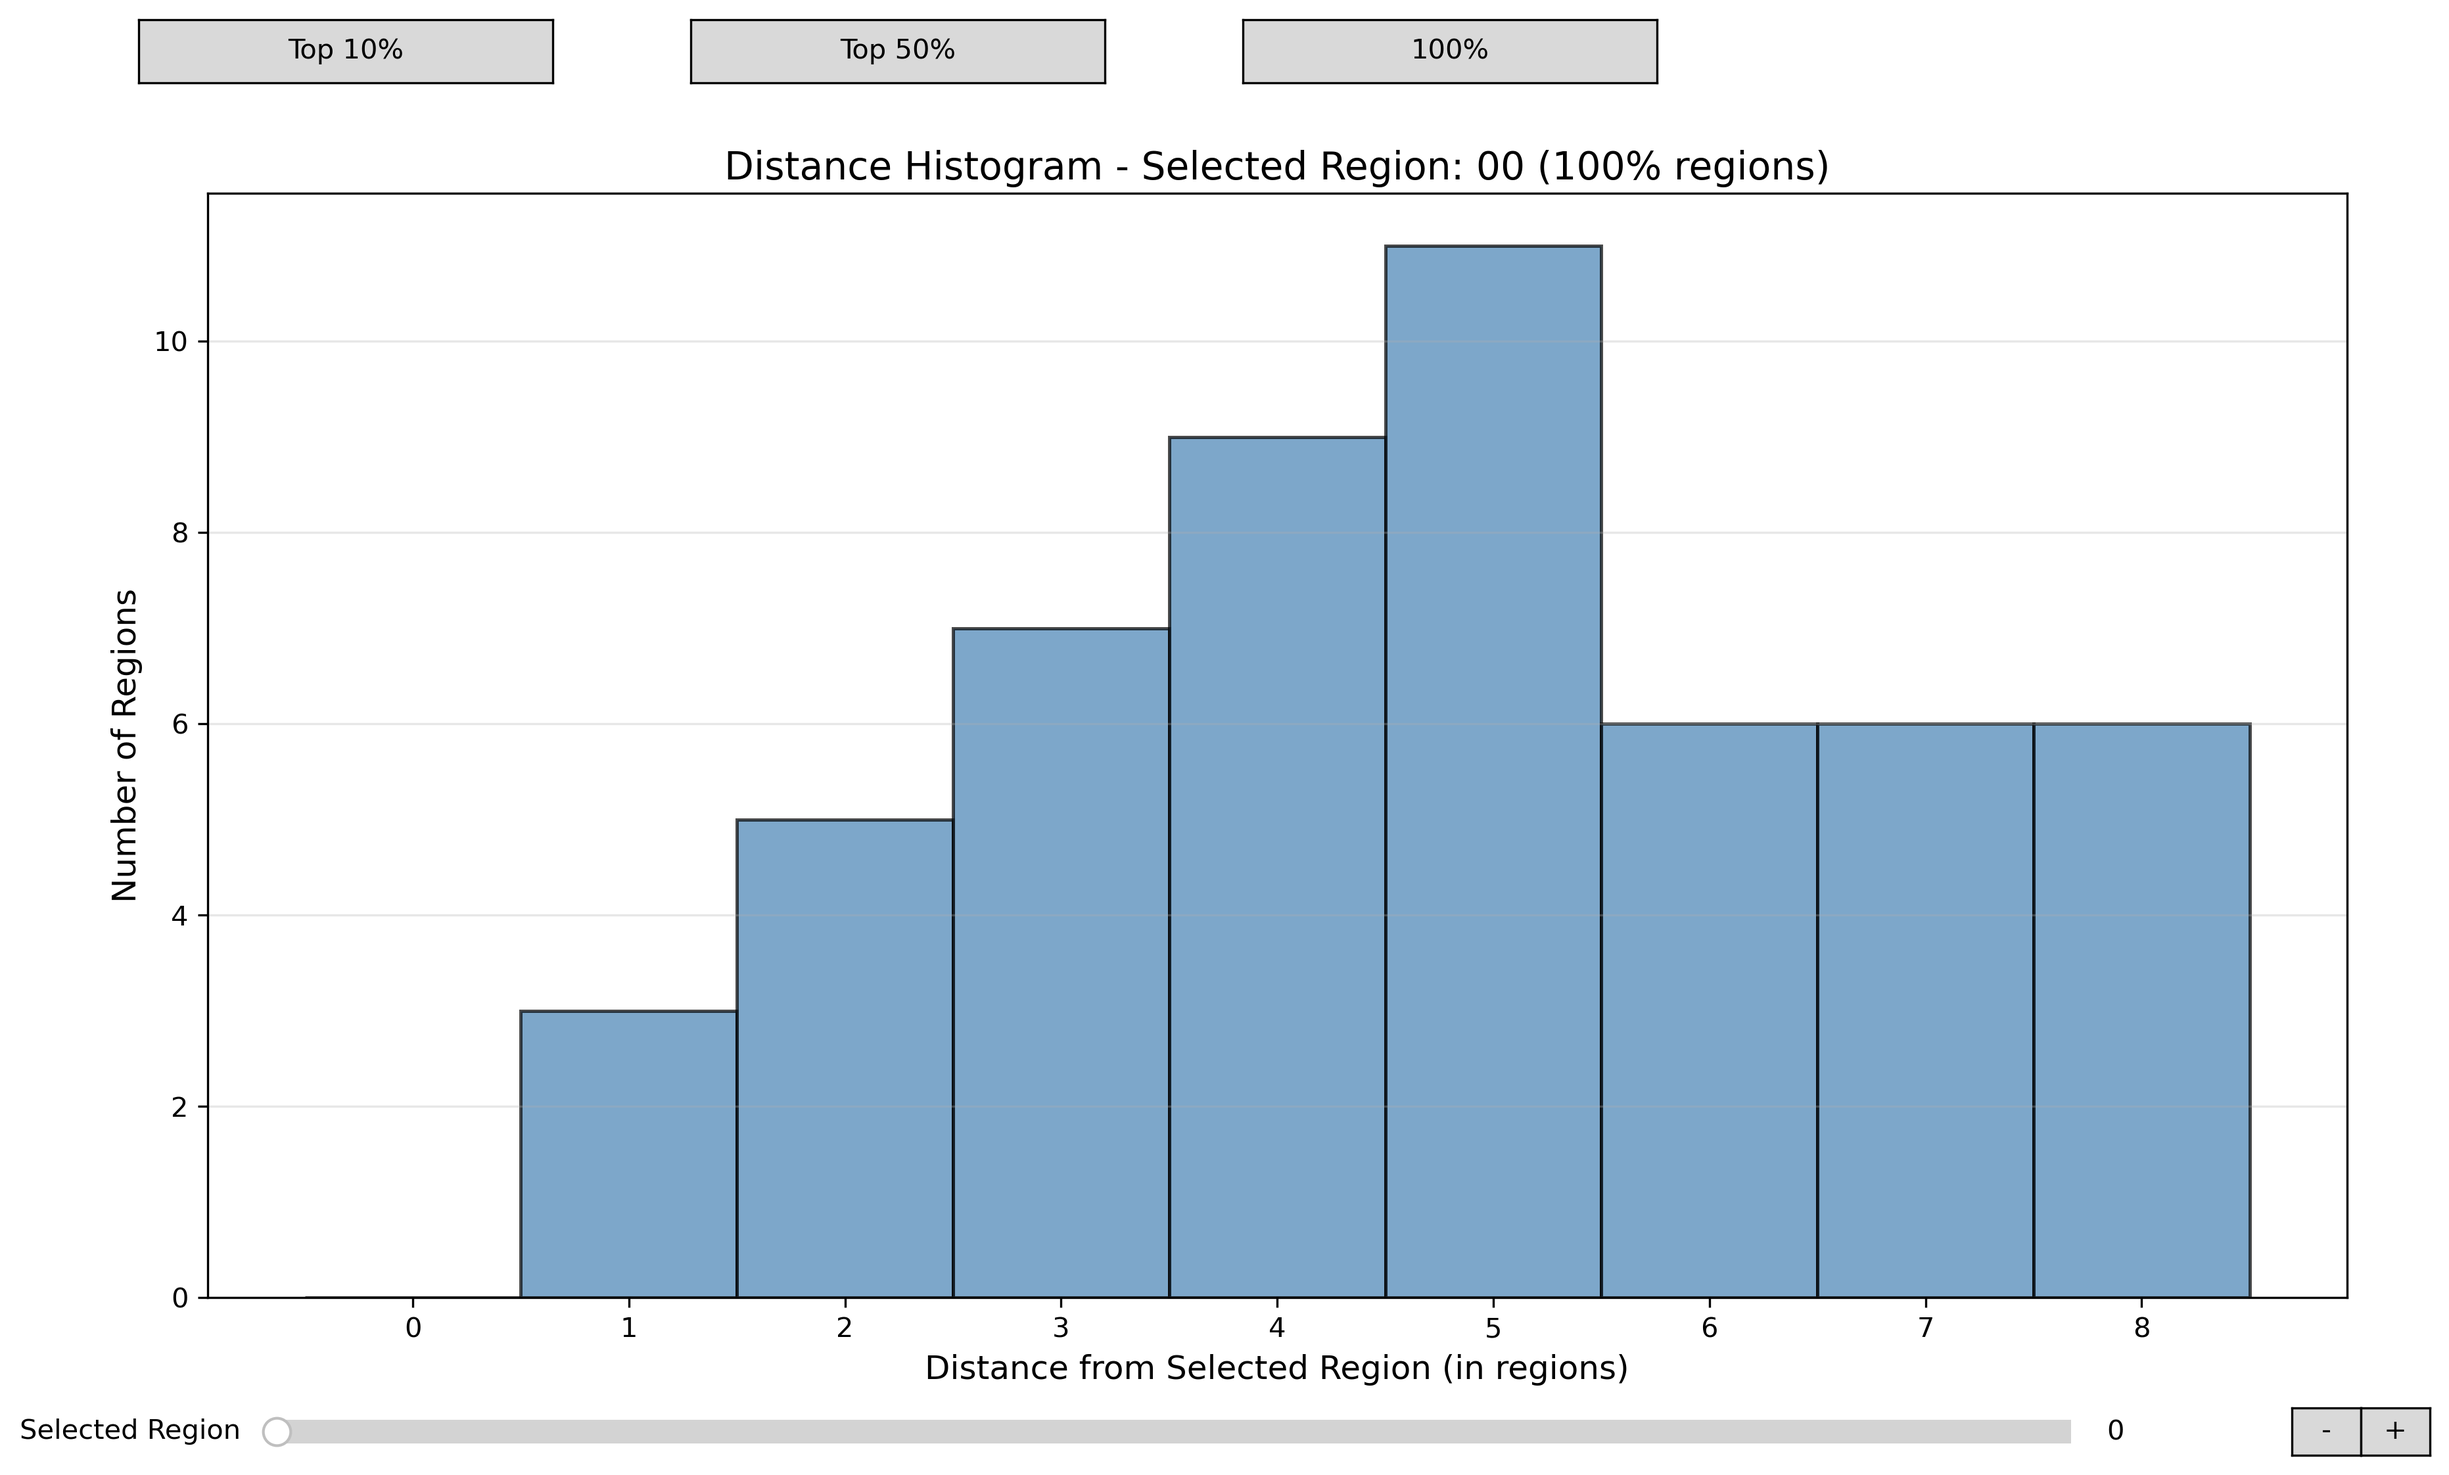
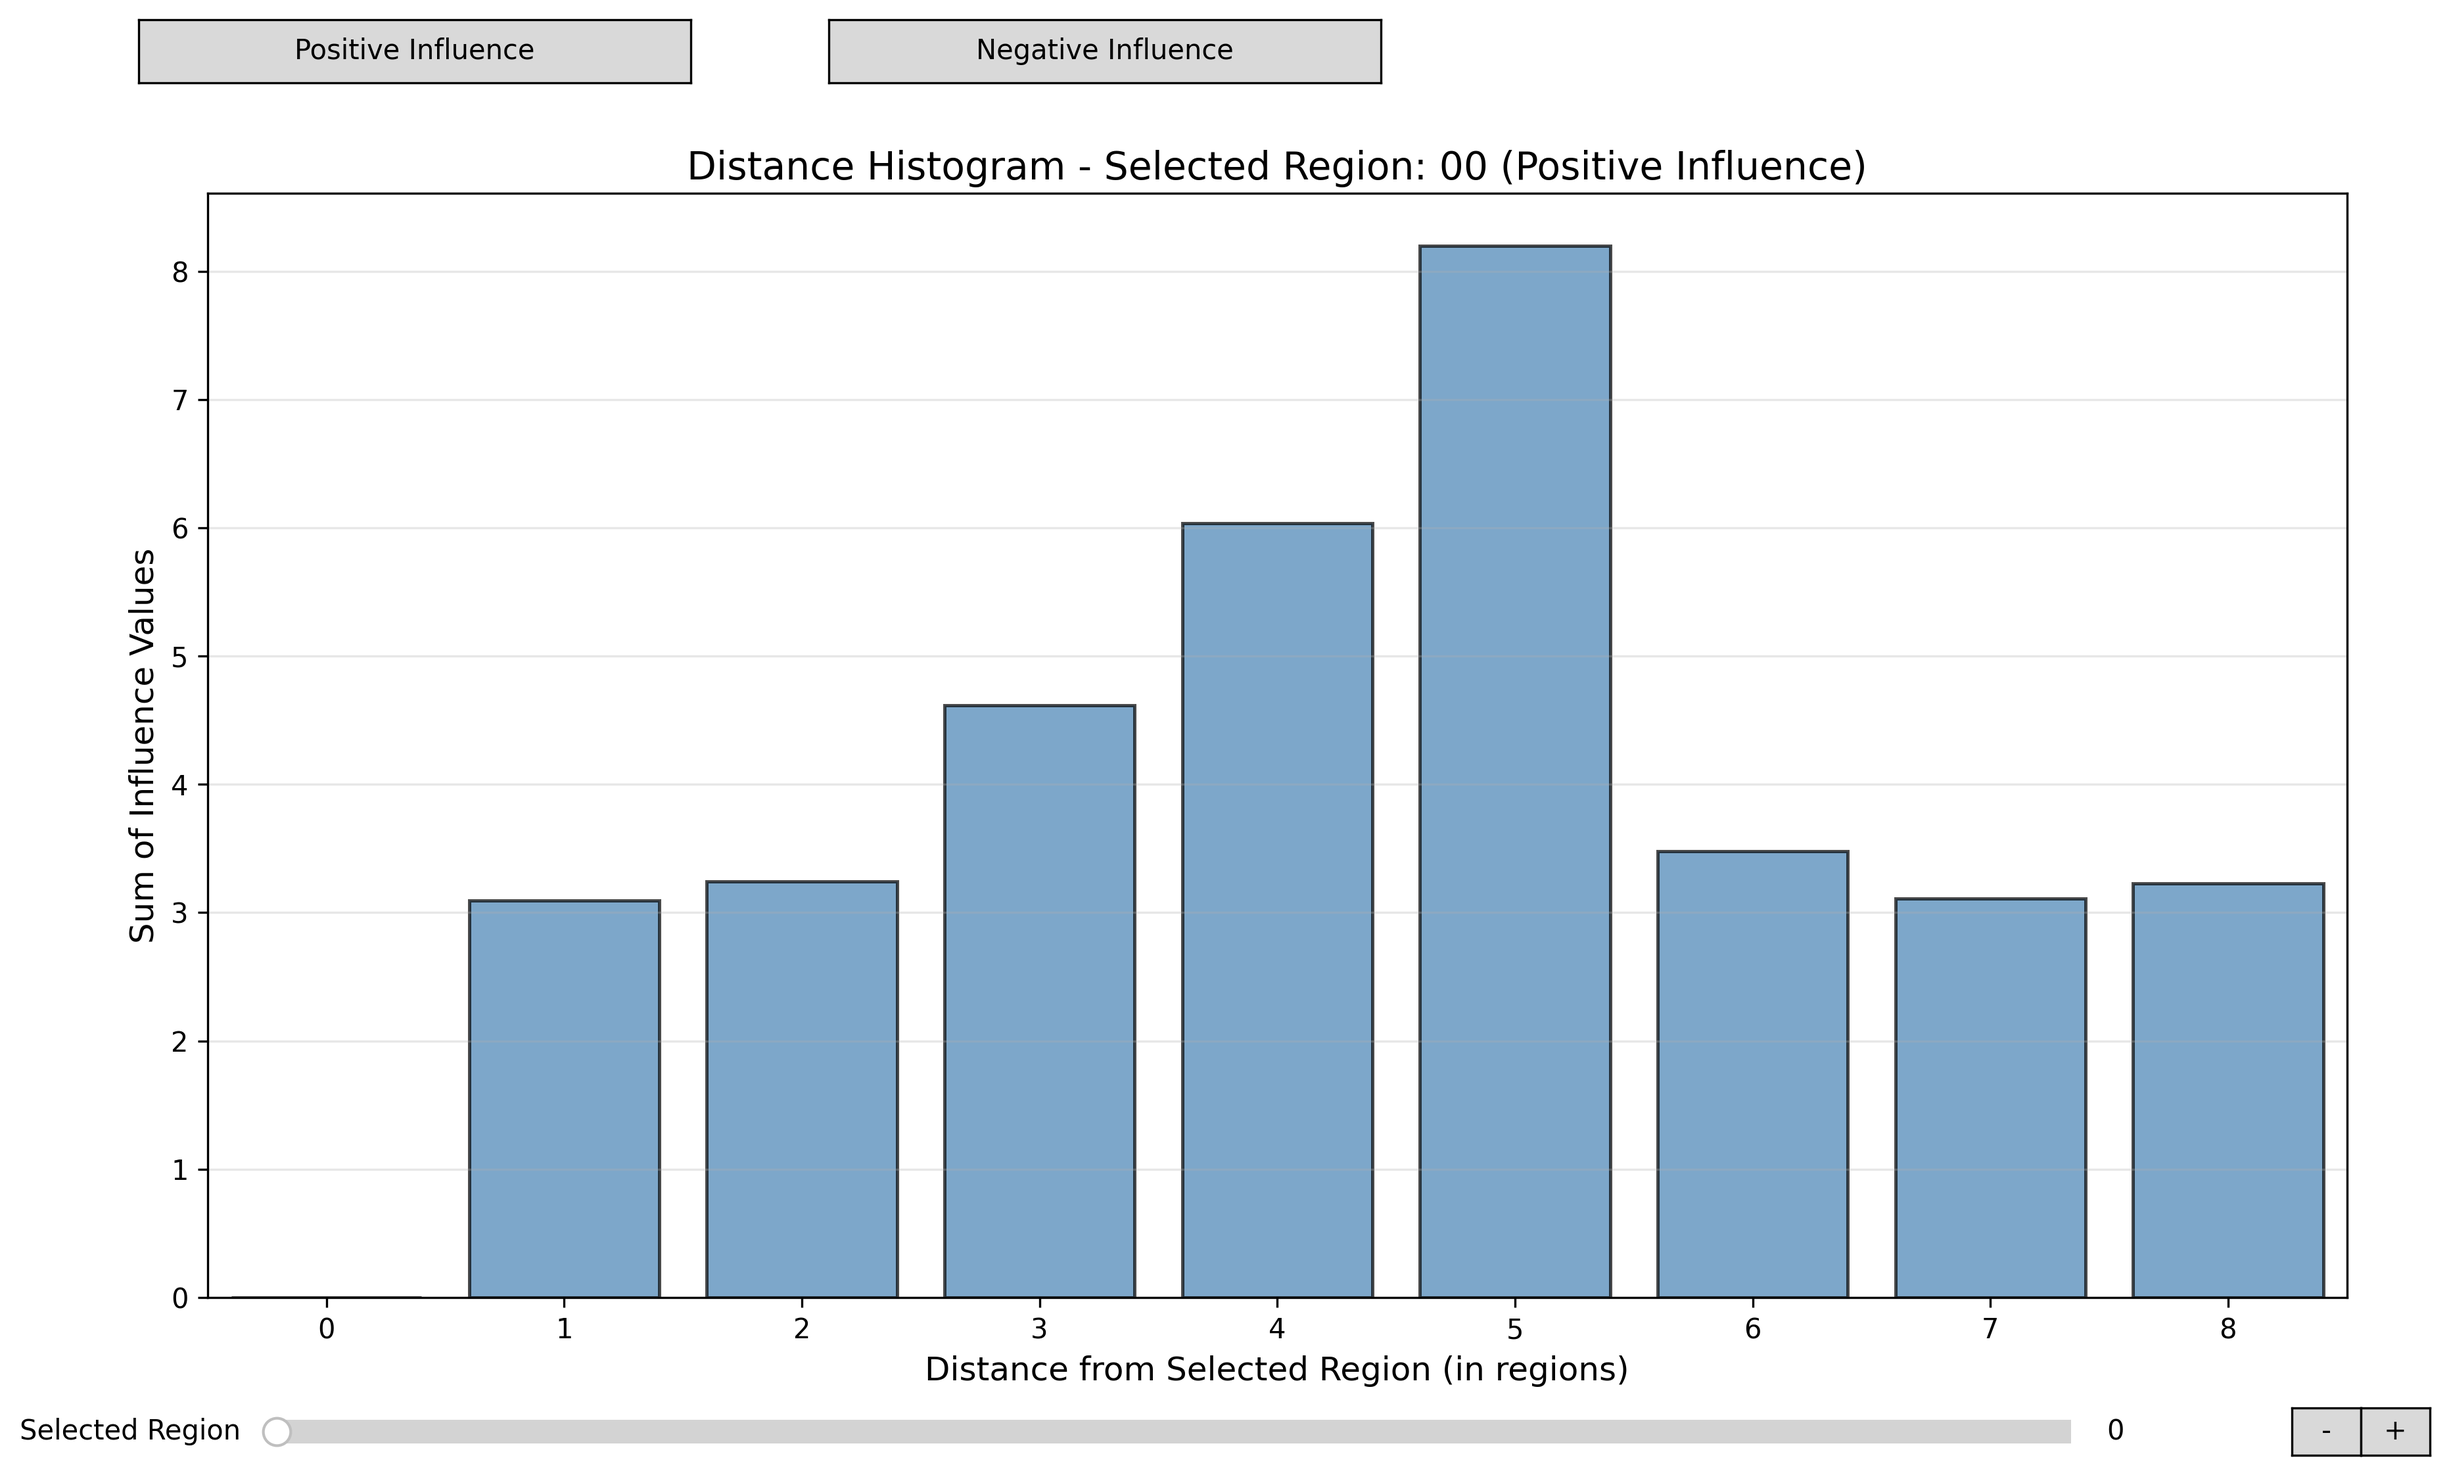
updated histogram to include influence value rather than number of regions

diff --git a/plot-scripts/plot_region_histogram.py b/plot-scripts/plot_region_histogram.py
@@ -24,10 +24,12 @@ def plot_region_histogram(regions_data, yref_shape=(192, 288)):
     # Store current selected region
     selected_region = [0]  # Default to region 0
     
-    # Store current percentage filter
-    current_percent = ['100%']  # '10%', '50%', '100%'
+    # Store current influence type
+    current_influence_type = ['positive']  # 'positive' or 'negative'
+    current_regions_data = [regions_data]
     
     # Calculate region grid positions (row, col) for distance calculation
+    # This only needs to be done once since region positions don't change
     region_positions = []
     for region_idx in range(num_regions):
         region_key = f'region_{region_idx:02d}'
@@ -44,29 +46,33 @@ def plot_region_histogram(regions_data, yref_shape=(192, 288)):
     # Store histogram plot
     hist_plot = [None]
     
-    # Add percentage filter buttons at the top
-    ax_top10 = plt.axes([0.1, 0.92, 0.15, 0.04])
-    ax_top50 = plt.axes([0.3, 0.92, 0.15, 0.04])
-    ax_100 = plt.axes([0.5, 0.92, 0.15, 0.04])
+    # Add influence type buttons at the top
+    ax_positive = plt.axes([0.1, 0.92, 0.2, 0.04])
+    ax_negative = plt.axes([0.35, 0.92, 0.2, 0.04])
     
-    btn_top10 = widgets.Button(ax_top10, 'Top 10%', hovercolor='lightblue')
-    btn_top50 = widgets.Button(ax_top50, 'Top 50%', hovercolor='lightgreen')
-    btn_100 = widgets.Button(ax_100, '100%', hovercolor='lightcoral')
+    btn_positive = widgets.Button(ax_positive, 'Positive Influence', hovercolor='lightgreen')
+    btn_negative = widgets.Button(ax_negative, 'Negative Influence', hovercolor='lightcoral')
+    
+    def load_influence_data(influence_type):
+        """Load the appropriate regions data based on influence type."""
+        if influence_type == "positive":
+            return np.load(os.path.join(TOOL_DATA_DIR, 'regions_data_positive.npy'), allow_pickle=True).item()
+        elif influence_type == "negative":
+            return np.load(os.path.join(TOOL_DATA_DIR, 'regions_data_negative.npy'), allow_pickle=True).item()
+        else:
+            return current_regions_data[0]
     
     def update_button_colors():
-        """Update button colors to highlight the active percentage."""
+        """Update button colors to highlight the active influence type."""
         # Reset all buttons to default colors
-        btn_top10.color = 'lightgray'
-        btn_top50.color = 'lightgray'
-        btn_100.color = 'lightgray'
+        btn_positive.color = 'lightgray'
+        btn_negative.color = 'lightgray'
         
         # Highlight the active button
-        if current_percent[0] == '10%':
-            btn_top10.color = 'lightblue'
-        elif current_percent[0] == '50%':
-            btn_top50.color = 'lightgreen'
-        elif current_percent[0] == '100%':
-            btn_100.color = 'lightcoral'
+        if current_influence_type[0] == "positive":
+            btn_positive.color = 'lightgreen'
+        elif current_influence_type[0] == "negative":
+            btn_negative.color = 'lightcoral'
     
     def calculate_distances(region_idx):
         """Calculate grid-based distances from selected region to all other regions.
@@ -78,12 +84,17 @@ def plot_region_histogram(regions_data, yref_shape=(192, 288)):
         - etc.
         
         Uses Chebyshev distance (max of row and column differences).
+        
+        Returns:
+            distances: array of distances
+            region_indices: array of corresponding region indices
         """
         if region_idx >= len(region_positions):
-            return np.array([])
+            return np.array([]), np.array([])
         
         selected_pos = region_positions[region_idx]
         distances = []
+        region_indices = []
         
         for i in range(num_regions):
             if i != region_idx:
@@ -94,8 +105,9 @@ def plot_region_histogram(regions_data, yref_shape=(192, 288)):
                 col_diff = abs(selected_pos[1] - other_pos[1])
                 dist = max(row_diff, col_diff)
                 distances.append(dist)
+                region_indices.append(i)
         
-        return np.array(distances)
+        return np.array(distances), np.array(region_indices)
     
     def update_histogram(region_idx):
         """Update the histogram for the selected region."""
@@ -106,53 +118,59 @@ def plot_region_histogram(regions_data, yref_shape=(192, 288)):
         hist_plot[0] = None
         
         # Calculate distances from selected region to all other regions
-        distances = calculate_distances(region_idx)
+        distances, other_region_indices = calculate_distances(region_idx)
         
         if len(distances) == 0:
-            ax.set_title(f'Distance Histogram - Selected Region: {region_idx:02d} (No data)', 
+            influence_type_str = current_influence_type[0].capitalize()
+            ax.set_title(f'Distance Histogram - Selected Region: {region_idx:02d} ({influence_type_str} Influence - No data)', 
                         fontsize=14, pad=5)
             fig.canvas.draw_idle()
             return
         
-        # Determine how many regions to include based on percentage
-        total_regions = len(distances)
-        if current_percent[0] == '10%':
-            n_regions = max(1, int(0.1 * total_regions))
-        elif current_percent[0] == '50%':
-            n_regions = max(1, int(0.5 * total_regions))
-        else:  # 100%
-            n_regions = total_regions
+        # Get selected region key
+        selected_region_key = f'region_{region_idx:02d}'
         
-        # Sort distances and take top N (closest regions)
-        sorted_indices = np.argsort(distances)
-        selected_distances = distances[sorted_indices[:n_regions]]
+        # Sum influence values for each distance
+        # For each distance from 0 to 8, sum the influence of selected region on regions at that distance
+        distance_influence_sums = np.zeros(9)  # 0 to 8
         
-        # Create histogram
-        if len(selected_distances) > 0:
-            # Use integer bins since distances are discrete (0, 1, 2, 3, ...)
-            max_dist = int(np.max(selected_distances))
-            # Create bins for each integer distance value
-            bins = np.arange(max_dist + 2) - 0.5  # Shift by 0.5 to center bins on integers
-            
-            hist_plot[0], bins, _ = ax.hist(selected_distances, bins=bins, 
-                                            color='steelblue', alpha=0.7, 
-                                            edgecolor='black', linewidth=1.2)
-            
-            # Set x-axis ticks to integer values
-            ax.set_xticks(np.arange(max_dist + 1))
-            ax.set_xticklabels([str(i) for i in range(max_dist + 1)])
-            
-            # Update title
-            percent_str = current_percent[0]
-            ax.set_title(f'Distance Histogram - Selected Region: {region_idx:02d} ({percent_str} regions)', 
-                        fontsize=14, pad=5)
-        else:
-            ax.set_title(f'Distance Histogram - Selected Region: {region_idx:02d} (No data)', 
-                        fontsize=14, pad=5)
+        # For each other region, get its distance and influence value
+        for i in range(len(distances)):
+            dist = int(distances[i])
+            if dist <= 8:  # Only consider distances 0-8
+                other_region_idx = other_region_indices[i]
+                other_region_key = f'region_{other_region_idx:02d}'
+                
+                # Get influence of selected region on this other region
+                # This is stored in other_region's influences dict under selected_region_key
+                if other_region_key in current_regions_data[0]:
+                    other_region_influences = current_regions_data[0][other_region_key].get('influences', {})
+                    influence_value = other_region_influences.get(selected_region_key, 0.0)
+                    distance_influence_sums[dist] += influence_value
+        
+        # For negative influences, convert to absolute values for display
+        if current_influence_type[0] == 'negative':
+            distance_influence_sums = np.abs(distance_influence_sums)
+        
+        # Create bar graph
+        distances_x = np.arange(9)  # 0 to 8
+        hist_plot[0] = ax.bar(distances_x, distance_influence_sums, 
+                             color='steelblue', alpha=0.7, 
+                             edgecolor='black', linewidth=1.2)
+        
+        # Set x-axis ticks to integer values (0 to 8)
+        ax.set_xticks(distances_x)
+        ax.set_xticklabels([str(i) for i in range(9)])
+        ax.set_xlim(-0.5, 8.5)  # Fixed x-axis range
+        
+        # Update title
+        influence_type_str = current_influence_type[0].capitalize()
+        ax.set_title(f'Distance Histogram - Selected Region: {region_idx:02d} ({influence_type_str} Influence)', 
+                    fontsize=14, pad=5)
         
         # Set labels
         ax.set_xlabel('Distance from Selected Region (in regions)', fontsize=12)
-        ax.set_ylabel('Number of Regions', fontsize=12)
+        ax.set_ylabel('Sum of Influence Values', fontsize=12)
         
         # Add grid
         ax.grid(True, alpha=0.3, axis='y')
@@ -195,23 +213,18 @@ def plot_region_histogram(regions_data, yref_shape=(192, 288)):
         if val < num_regions - 1:
             slider_region.set_val(val + 1)
     
-    def on_top10_click(event):
-        """Handle Top 10% button click."""
-        current_percent[0] = '10%'
+    def on_positive_click(event):
+        """Handle positive influence button click."""
+        current_influence_type[0] = "positive"
+        current_regions_data[0] = load_influence_data("positive")
         update_button_colors()
         update_histogram(selected_region[0])
         fig.canvas.draw_idle()
     
-    def on_top50_click(event):
-        """Handle Top 50% button click."""
-        current_percent[0] = '50%'
-        update_button_colors()
-        update_histogram(selected_region[0])
-        fig.canvas.draw_idle()
-    
-    def on_100_click(event):
-        """Handle 100% button click."""
-        current_percent[0] = '100%'
+    def on_negative_click(event):
+        """Handle negative influence button click."""
+        current_influence_type[0] = "negative"
+        current_regions_data[0] = load_influence_data("negative")
         update_button_colors()
         update_histogram(selected_region[0])
         fig.canvas.draw_idle()
@@ -220,9 +233,8 @@ def plot_region_histogram(regions_data, yref_shape=(192, 288)):
     slider_region.on_changed(slider_update)
     btn_r_minus.on_clicked(r_minus)
     btn_r_plus.on_clicked(r_plus)
-    btn_top10.on_clicked(on_top10_click)
-    btn_top50.on_clicked(on_top50_click)
-    btn_100.on_clicked(on_100_click)
+    btn_positive.on_clicked(on_positive_click)
+    btn_negative.on_clicked(on_negative_click)
     
     # Initialize button colors
     update_button_colors()
@@ -241,8 +253,8 @@ def plot_region_histogram(regions_data, yref_shape=(192, 288)):
 
 def main():
     """Main function to load data and create the histogram."""
-    print("Loading regions data...")
-    regions_data = np.load(os.path.join(TOOL_DATA_DIR, 'regions_data.npy'), allow_pickle=True).item()
+    print("Loading regions data (positive influence, default)...")
+    regions_data = np.load(os.path.join(TOOL_DATA_DIR, 'regions_data_positive.npy'), allow_pickle=True).item()
     
     print(f"Loaded {len(regions_data)} regions")
     
